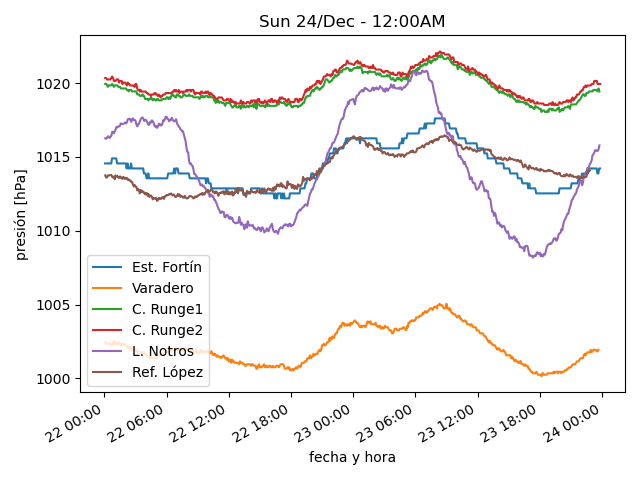
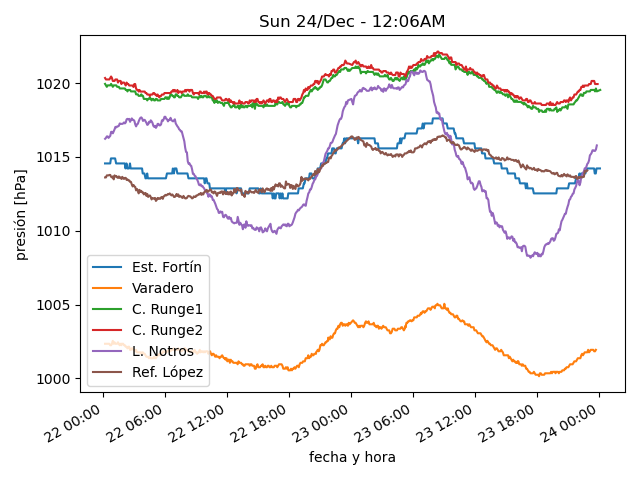
actualiza datos

diff --git a/estaciones/estacion3.html b/estaciones/estacion3.html
@@ -13,37 +13,37 @@
     </tr>
     <tr>
      <td class="stats_data">
-      Sat 23/Dec
+      Sun 24/Dec
      </td>
     </tr>
     <tr>
      <td class="stats_data">
-      11:44PM
+      12:04AM
      </td>
     </tr>
     <tr>
      <td class="stats_data">
-      15.6
+      14.7
      </td>
     </tr>
     <tr>
      <td class="stats_data">
-      6.8
+      7.2
      </td>
     </tr>
     <tr>
      <td class="stats_data">
-      55.8
+      60.7
      </td>
     </tr>
     <tr>
      <td class="stats_data">
-      1007.72
+      1007.82
      </td>
     </tr>
     <tr>
      <td class="stats_data">
-      3.5/4.6 WNW
+      4.4/6.0 WNW
      </td>
     </tr>
     <tr>

diff --git a/estaciones/estacion1.html b/estaciones/estacion1.html
@@ -13,27 +13,27 @@
     </tr>
     <tr>
      <td class="stats_data">
-      Sat 23/Dec
+      Sun 24/Dec
      </td>
     </tr>
     <tr>
      <td class="stats_data">
-      11:49PM
+      12:03AM
      </td>
     </tr>
     <tr>
      <td class="stats_data">
-      15.1
+      14.7
      </td>
     </tr>
     <tr>
      <td class="stats_data">
-      5.4
+      5.6
      </td>
     </tr>
     <tr>
      <td class="stats_data">
-      52.3
+      54.5
      </td>
     </tr>
     <tr>
@@ -43,7 +43,7 @@
     </tr>
     <tr>
      <td class="stats_data">
-      4.2/5.9 SW
+      9.7/15.3 WNW
      </td>
     </tr>
     <tr>
